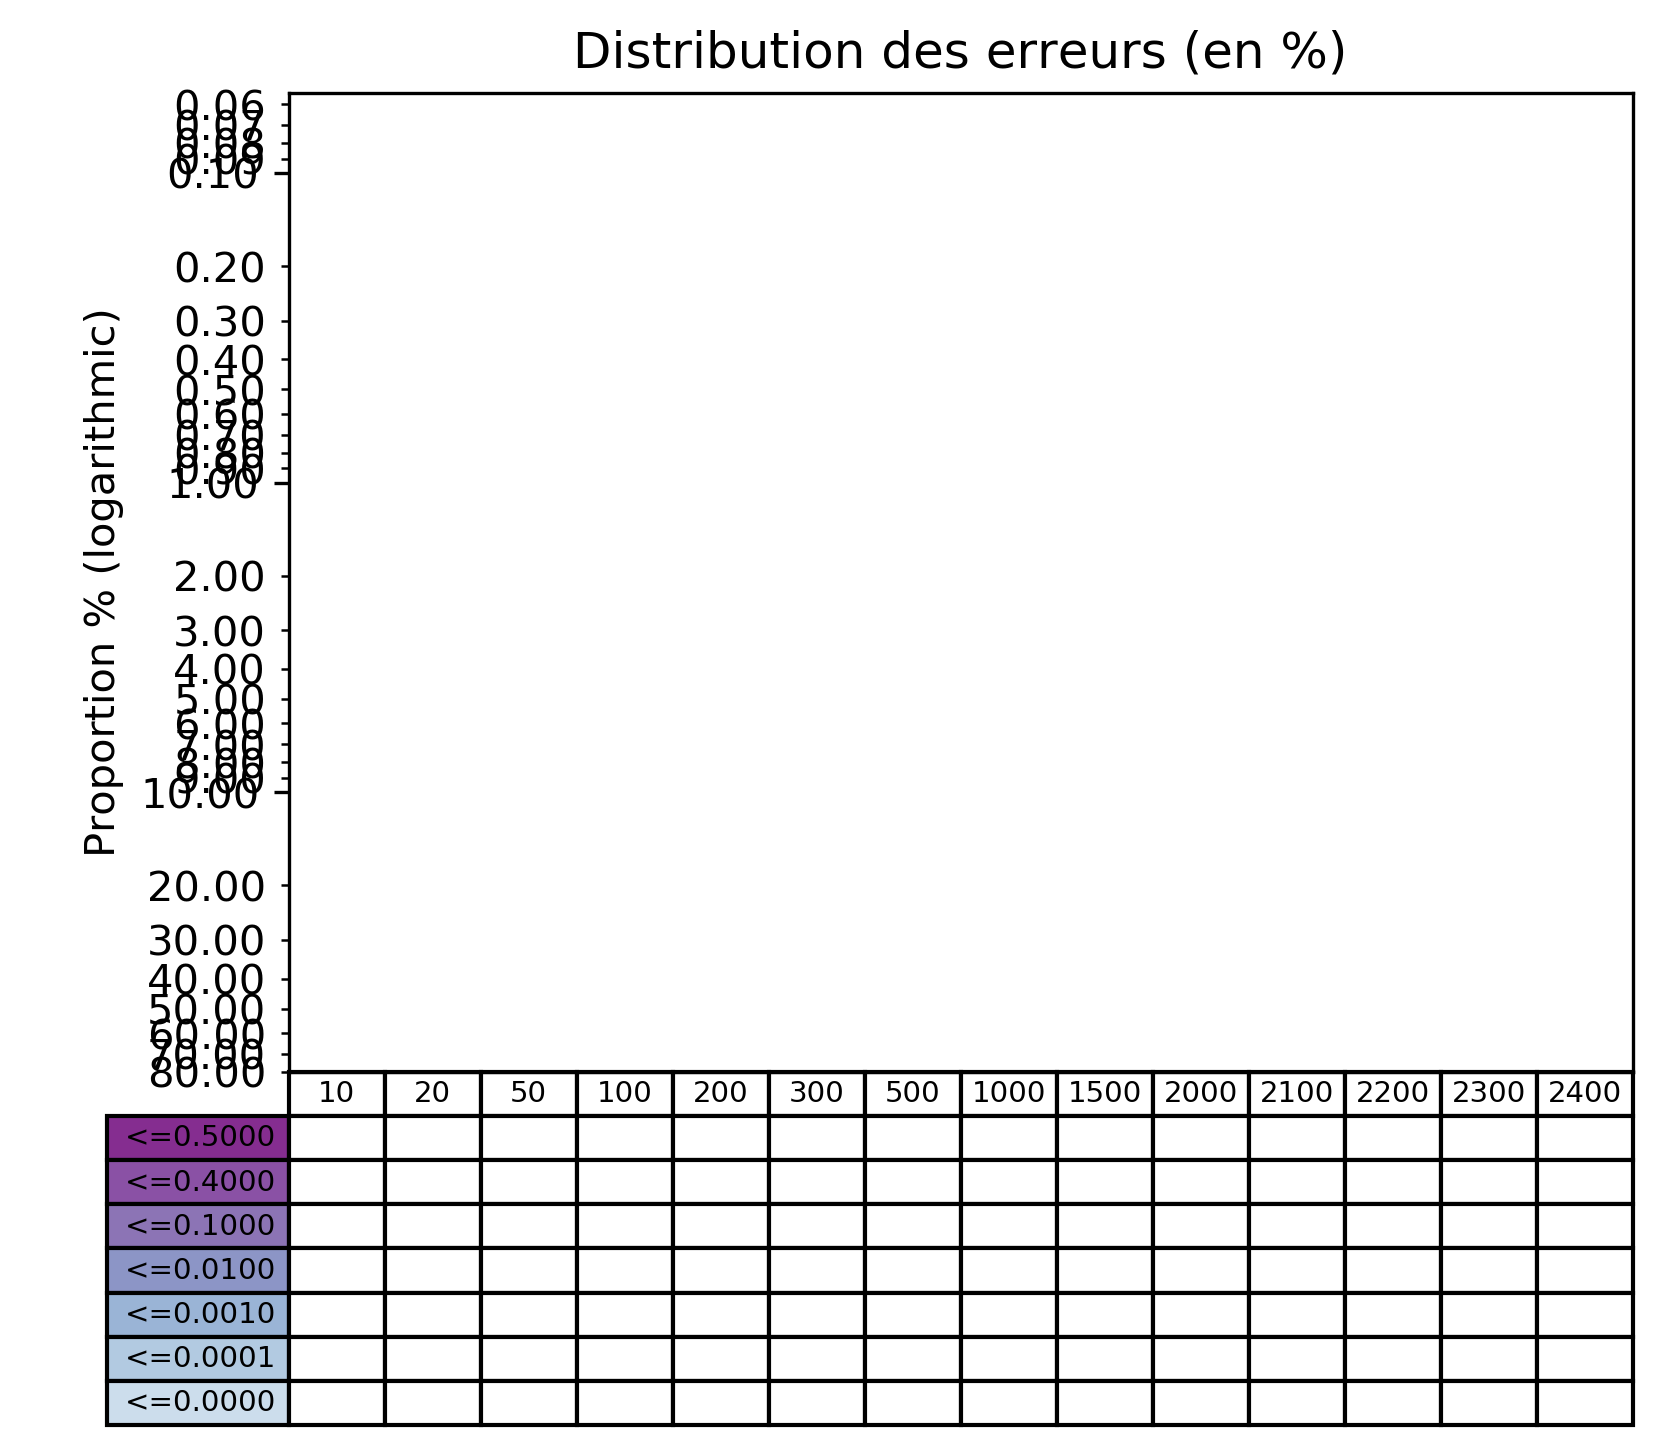
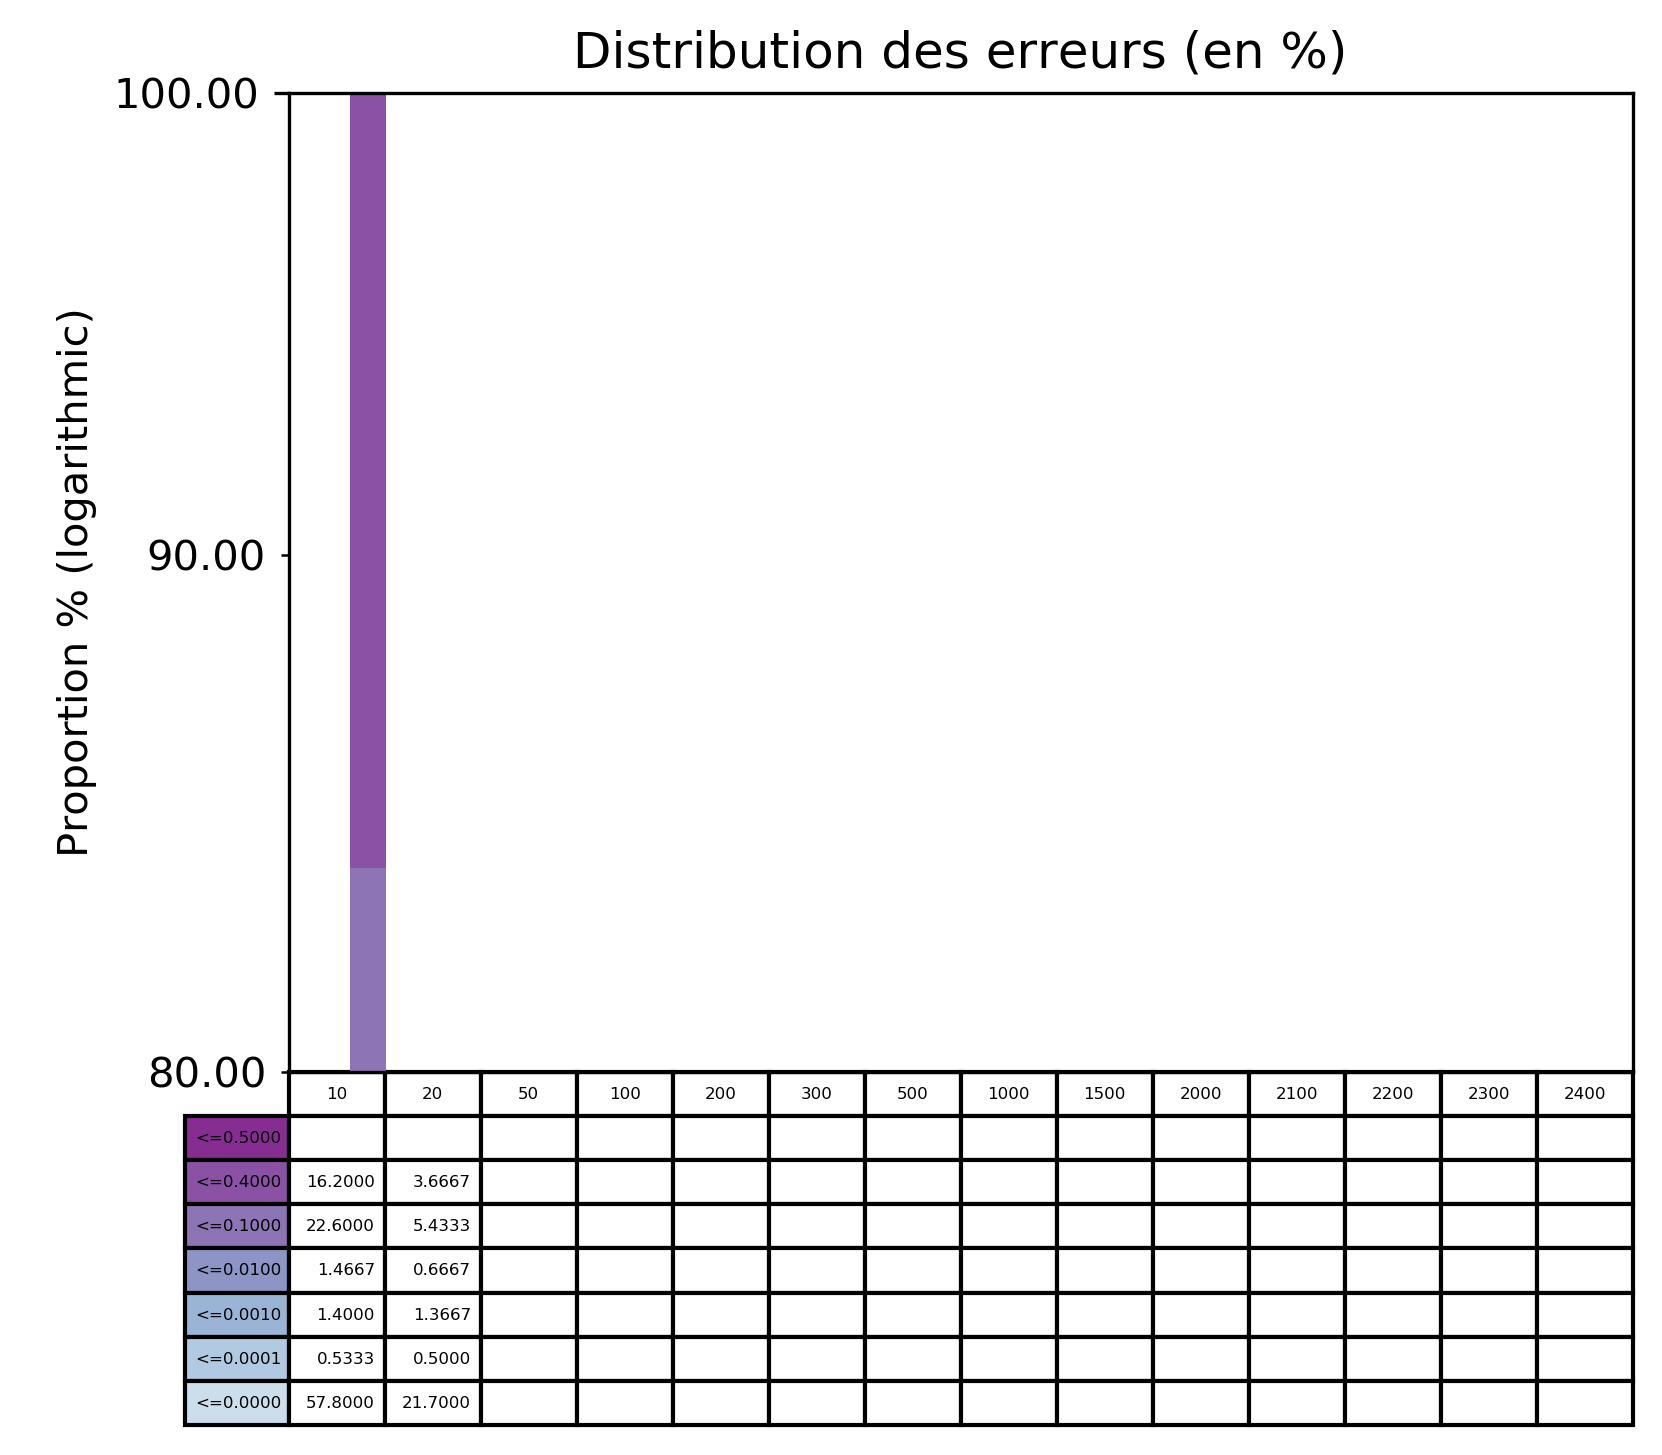
4G test

diff --git a/cplex/multi/exactitude_multi.py b/cplex/multi/exactitude_multi.py
@@ -21,17 +21,17 @@ data = np.zeros((len(nb_people),7),dtype=float)
 
 nb_Gen_Min = [math.ceil(x/2) for x in nb_Gen_Max]
 cl = 3
-gene_depart = 5
-gene = 5
+gene_depart = 4
+gene = 4
 distance = [0.8,0.7,0.5]
 centimorgans = [0.295797287184, 0.296353882133, 0.299343592142, 0.59, 0.59]
 w = 0
 
 #{'X1_1':[1,0,0,0],'X5_1':[1,1,1,0],'X8_1':[1,1,1,0],'X1_2':[0,1,1,0],'X6_2':[0,0,0,1],'X2_3':[1,1,1,0],'X3_3':[0,1,1,0],'X7_3':[1,0,0,0],'X4_4':[0,1,1,1],'X5_4':[0,1,0,0]}
 #evidence = {'X1_1':[1,0,0,0],'X5_1':[1,1,1,0],'X8_1':[1,1,1,0],'X2_2':[0,1,1,0],'X6_2':[0,0,0,1],'X3_3':[1,1,1,0],'X7_3':[0,1,1,0]}
-evidence = {'X1_1':[1,0,0,0],'X5_1':[1,1,1,0],'X8_1':[1,1,1,0],'X3_3':[1,1,1,0],'X7_3':[0,1,1,0],'X1_4':[1,1,1,0],'X2_4':[0,1,1,0],'X6_5':[0,1,1,1],'X9_5':[1,1,1,0]}
+evidence = {'X1_1':[1,0,0,0],'X5_1':[1,1,1,0],'X8_1':[1,1,1,0],'X3_3':[1,1,1,0],'X7_3':[0,1,1,0],'X1_4':[1,1,1,0],'X2_4':[0,1,1,0]}
 #evidence = None
-file = open('../data/multi/lbp/last_test3', 'w')
+file = open('../data/multi/lbp/last_test2', 'w')
 #file = open('../data/multi/lbp/test', 'w')
 
 

diff --git a/cplex/Read_Data.py b/cplex/Read_Data.py
@@ -109,7 +109,7 @@ def max_gene():
 #max_gene()
 
 #data = data_to_plot('./data/multi/lbp/proportion_4G_1_obs')
-data = data_to_plot('./data/multi/lbp/last_test2')
+data = data_to_plot('./data/multi/lbp/last_test3')
 columns = nb_people
 # les seuils testés
 #values=[80,50,20,10,5]
